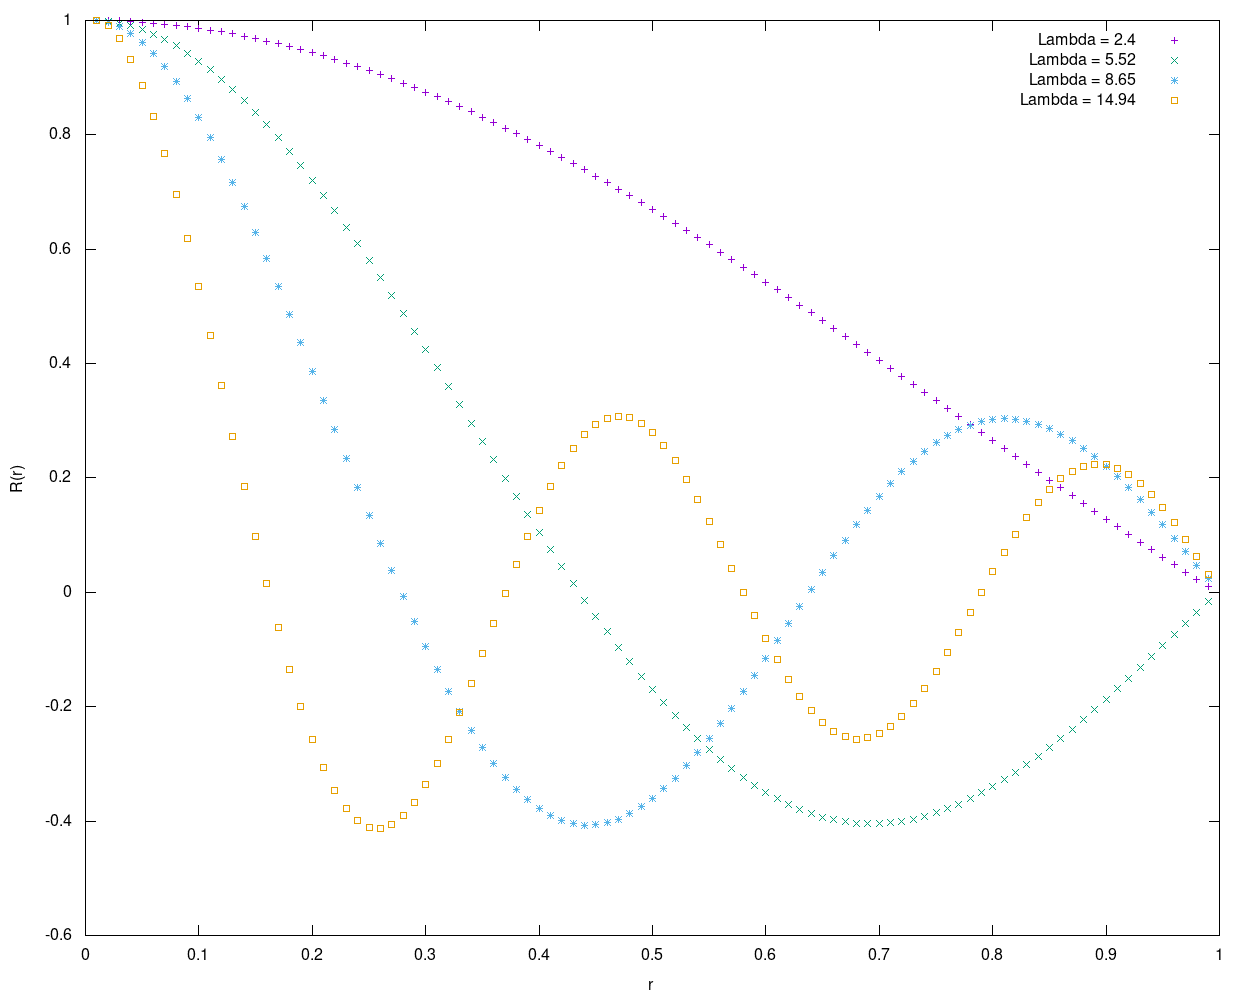
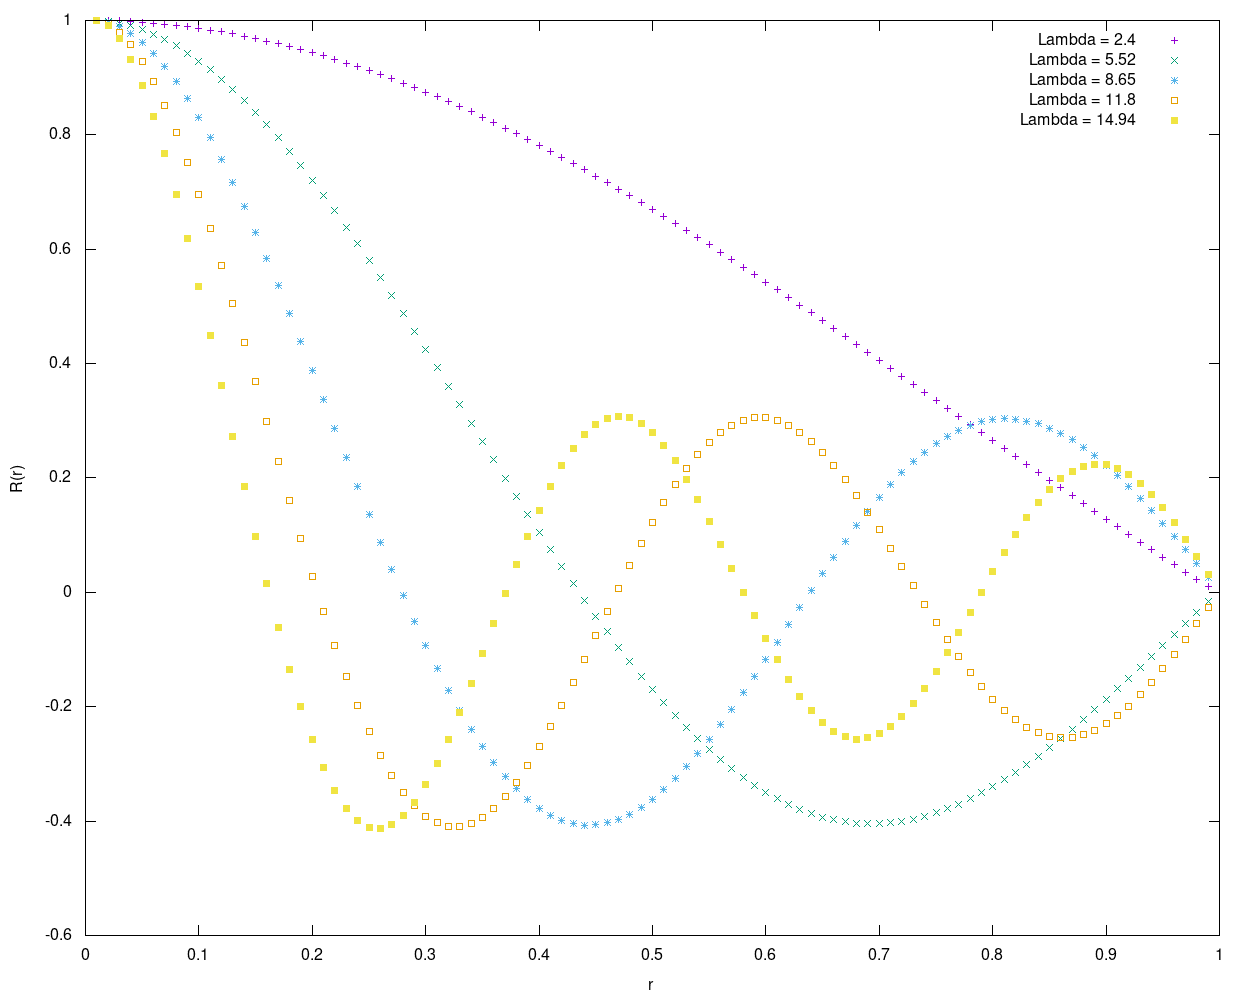
Corrección

diff --git a/Taller1/Problema2/T1_Problem2_d.cpp b/Taller1/Problema2/T1_Problem2_d.cpp
@@ -59,13 +59,15 @@ int main(){
     double r=1; 
     double l;
     double zero1=ZerosBi(alpha,r,l,0.01,4);
-    double zero2=ZerosBi(alpha,r,l,4,8);
-    double zero3=ZerosBi(alpha,r,l,8,12);
-    double zero4=ZerosBi(alpha,r,l,12,15);
+    double zero2=ZerosBi(alpha,r,l,4,7);
+    double zero3=ZerosBi(alpha,r,l,7,10);
+    double zero4=ZerosBi(alpha,r,l,10,13);
+    double zero5=ZerosBi(alpha,r,l,13,15);
     cout<<"El primer cero está en "<<zero1<<endl;
     cout<<"El segundo cero está en "<<zero2<<endl;
     cout<<"El tercer cero está en "<<zero3<<endl;
     cout<<"El cuarto cero está en "<<zero4<<endl;
+    cout<<"El quinto cero está en "<<zero5<<endl;
 
     ofstream outfile;
     outfile.open("T1_P2_d_zero1.dat");
@@ -86,6 +88,11 @@ int main(){
     outfile.open("T1_P2_d_zero4.dat");
     for(r=0.01;r<=1;r+=0.01){
         outfile <<r<<"\t"<<Bessel(alpha,r,zero4)<<endl;
+    }
+    outfile.close();
+    outfile.open("T1_P2_d_zero5.dat");
+    for(r=0.01;r<=1;r+=0.01){
+        outfile <<r<<"\t"<<Bessel(alpha,r,zero5)<<endl;
     }
     outfile.close();
 }

diff --git a/Taller1/Problema2/T1_Problem2_c.cpp b/Taller1/Problema2/T1_Problem2_c.cpp
@@ -65,13 +65,15 @@ double ZerosBi(double a, double b){
 
 int main(){
     double zero1=ZerosBi(0.5,4);
-    double zero2=ZerosBi(4,8);
-    double zero3=ZerosBi(8,12);
-    double zero4=ZerosBi(12,15);
+    double zero2=ZerosBi(4,7);
+    double zero3=ZerosBi(7,10);
+    double zero4=ZerosBi(10,13);
+    double zero5=ZerosBi(13,15);
     cout<<"El primer cero está en "<<zero1<<endl;
     cout<<"El segundo cero está en "<<zero2<<endl;
     cout<<"El tercer cero está en "<<zero3<<endl;
     cout<<"El cuarto cero está en "<<zero4<<endl;
+    cout<<"El quinto cero está en "<<zero5<<endl;
     ofstream outfile;
     outfile.open("T1_P2_c_zero1.dat");
     double r;
@@ -94,5 +96,10 @@ int main(){
         outfile <<r<<"\t"<<R(r,zero4)<<endl;
     }
     outfile.close(); 
+    outfile.open("T1_P2_c_zero5.dat");
+    for(r=0.01;r<=1;r+=0.01){
+        outfile <<r<<"\t"<<R(r,zero5)<<endl;
+    }
+    outfile.close();
 
 }
